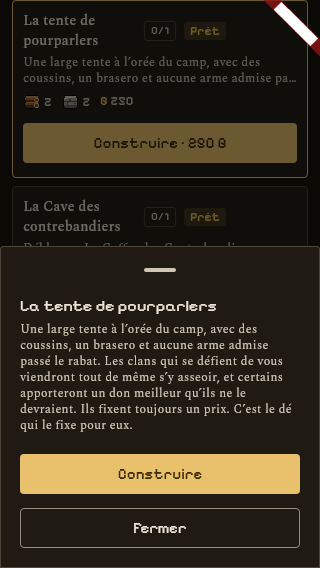
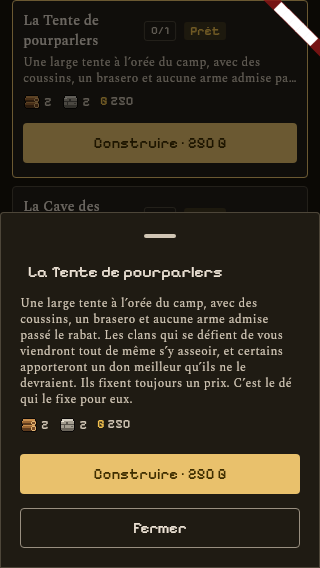
QA: smoke pictures re-taken on v1.502 (camp build sheet, town service sheet, temple rows)
Claude-Session: https://claude.ai/code/session_015xvihah6G2TAFNbonqo45a

diff --git a/docs/qa/smoke/README.md b/docs/qa/smoke/README.md
@@ -24,3 +24,5 @@ gold need reads "G" on one line and "900/1200" on the next, beside "Encore
 300 G." (`camp_card_star_well_320_fr.png`).
 
 Observation (UX, no overflow, probably by design): the cove camp is a place of its own, with no Town tab and no "Held by" line (`tints_cove_camp_nobody_district_360_en.png`); White Wells, a town no clan holds, says "No clan holds it" / "Aucun clan ne le tient" (`tints_white_wells_nobody_town_320_fr.png`).
+
+v1.502 (one set of parts for the camp build sheet, the town service sheet and the temple rows, #455): the four sheets' pictures above were re-taken on it (`camp_card_star_well_320_fr`, `camp_card_parley_tent_320_fr`, `service_sheet_market_320_fr`, `temple_hostile_dominion_320_en`); the five smoke files that open them pass at both sizes in both languages, nothing overflows or clips. For UX (cosmetic): the camp build sheet's title starts at about 28 px while its text starts at 20 px (the temple sheet's title sits beside its icon); at 320 px the temple's small "Blessing" label in the pixel font reads like "Glessing"; the Star Well's gold need still stacks the count (900/1200) under "Or".
